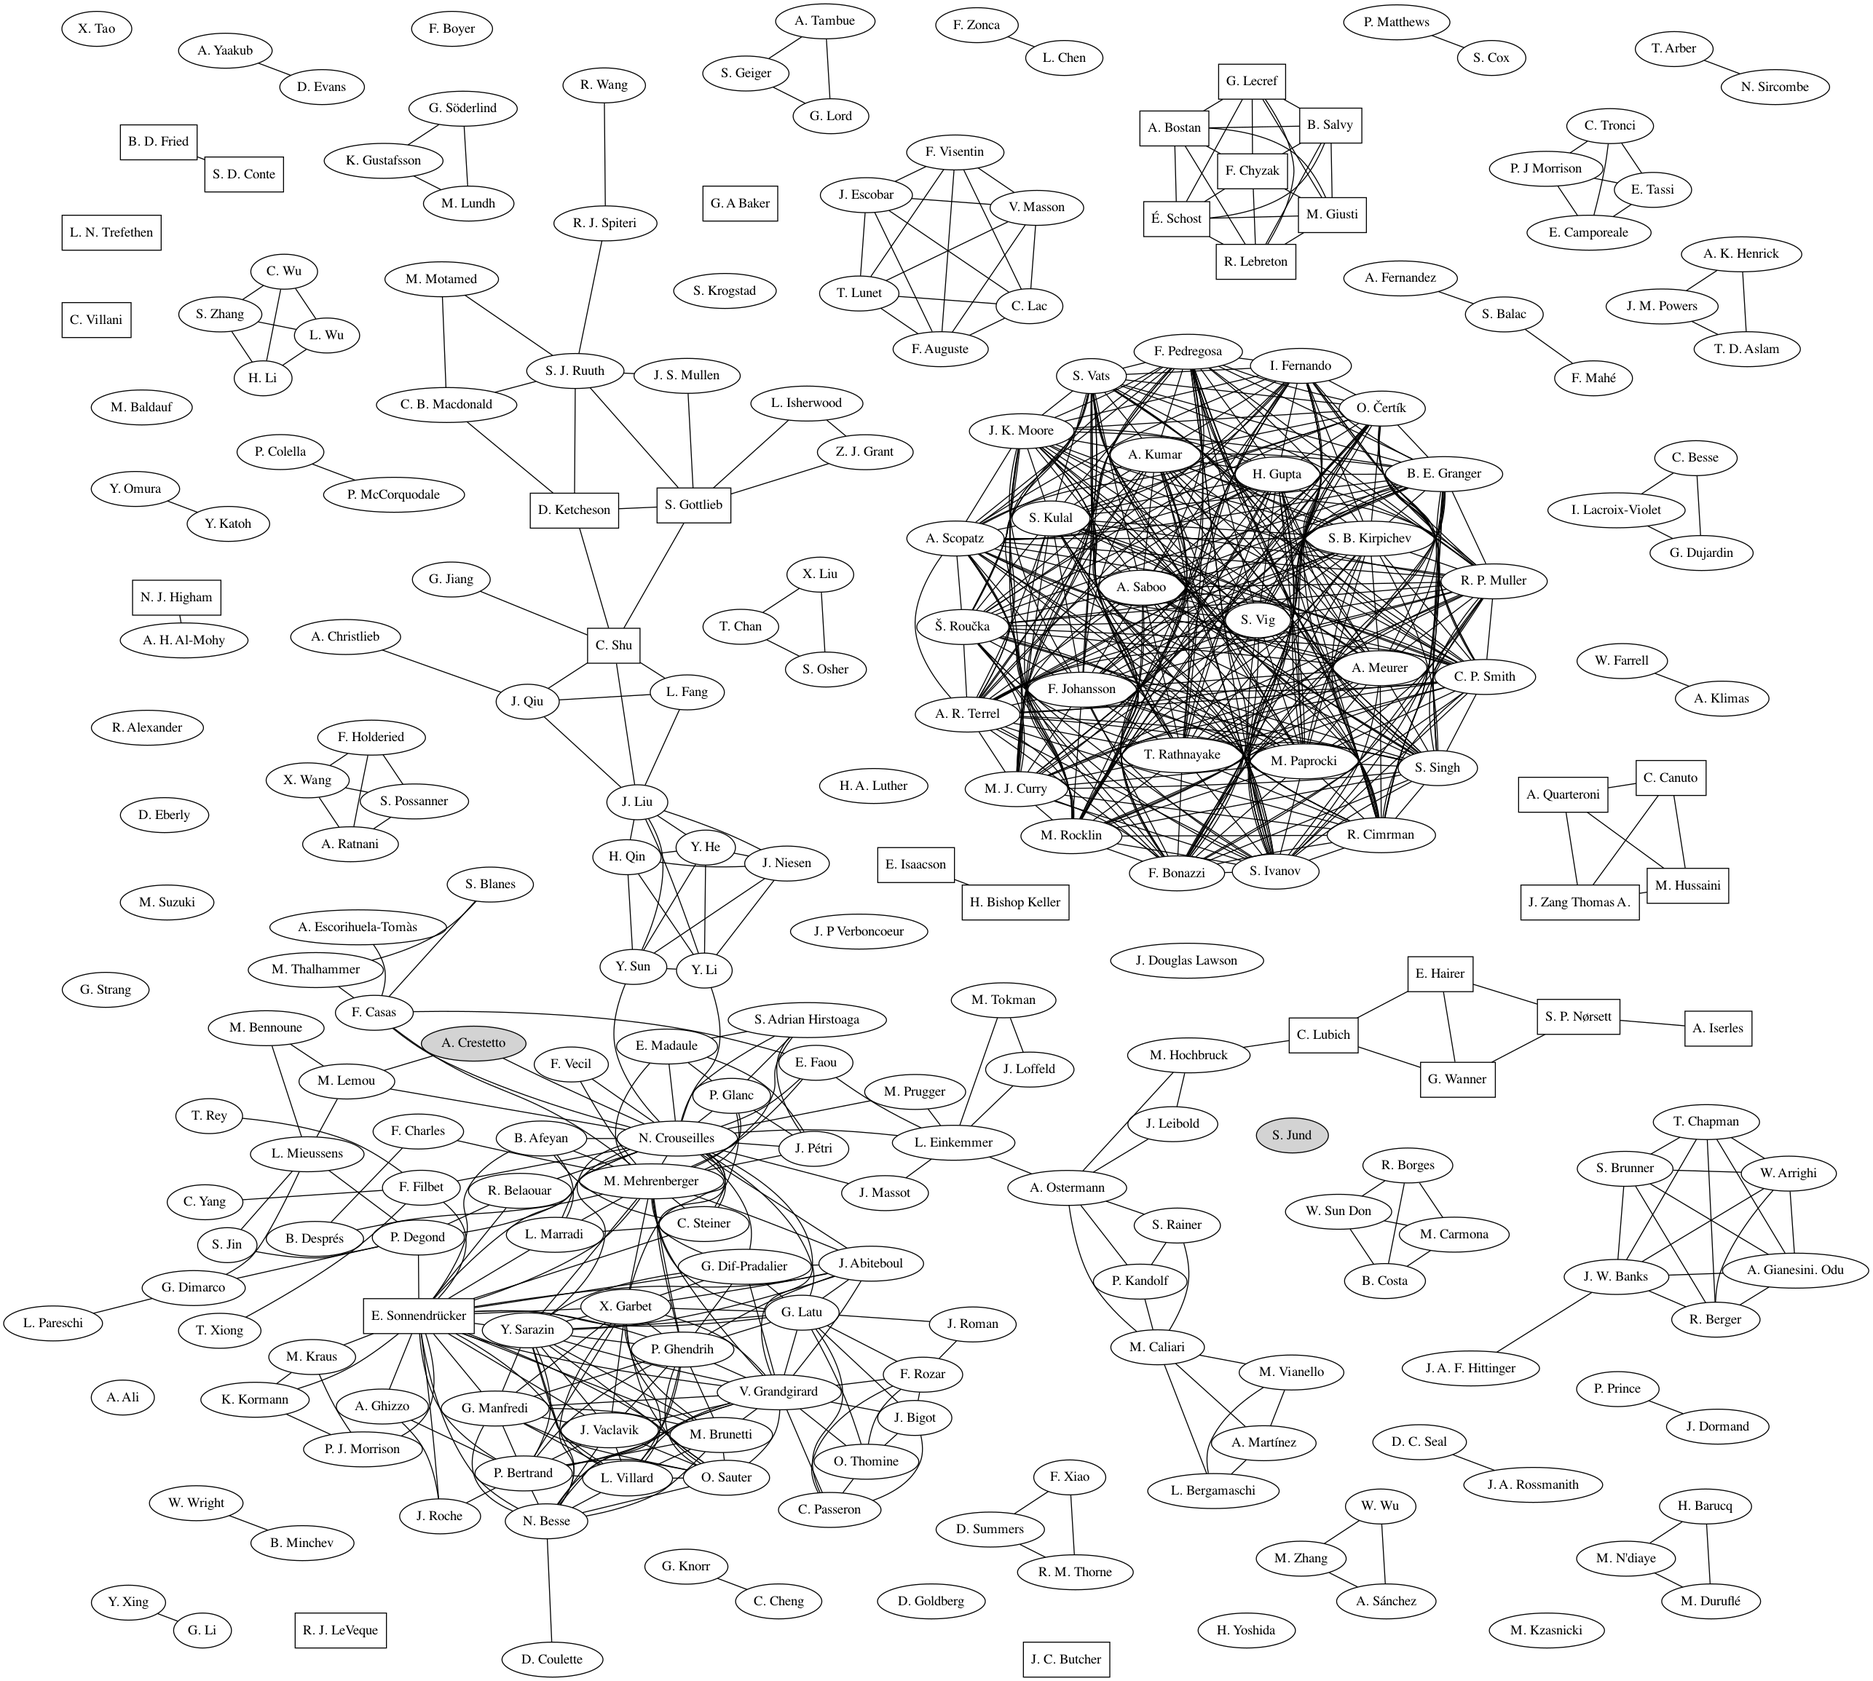
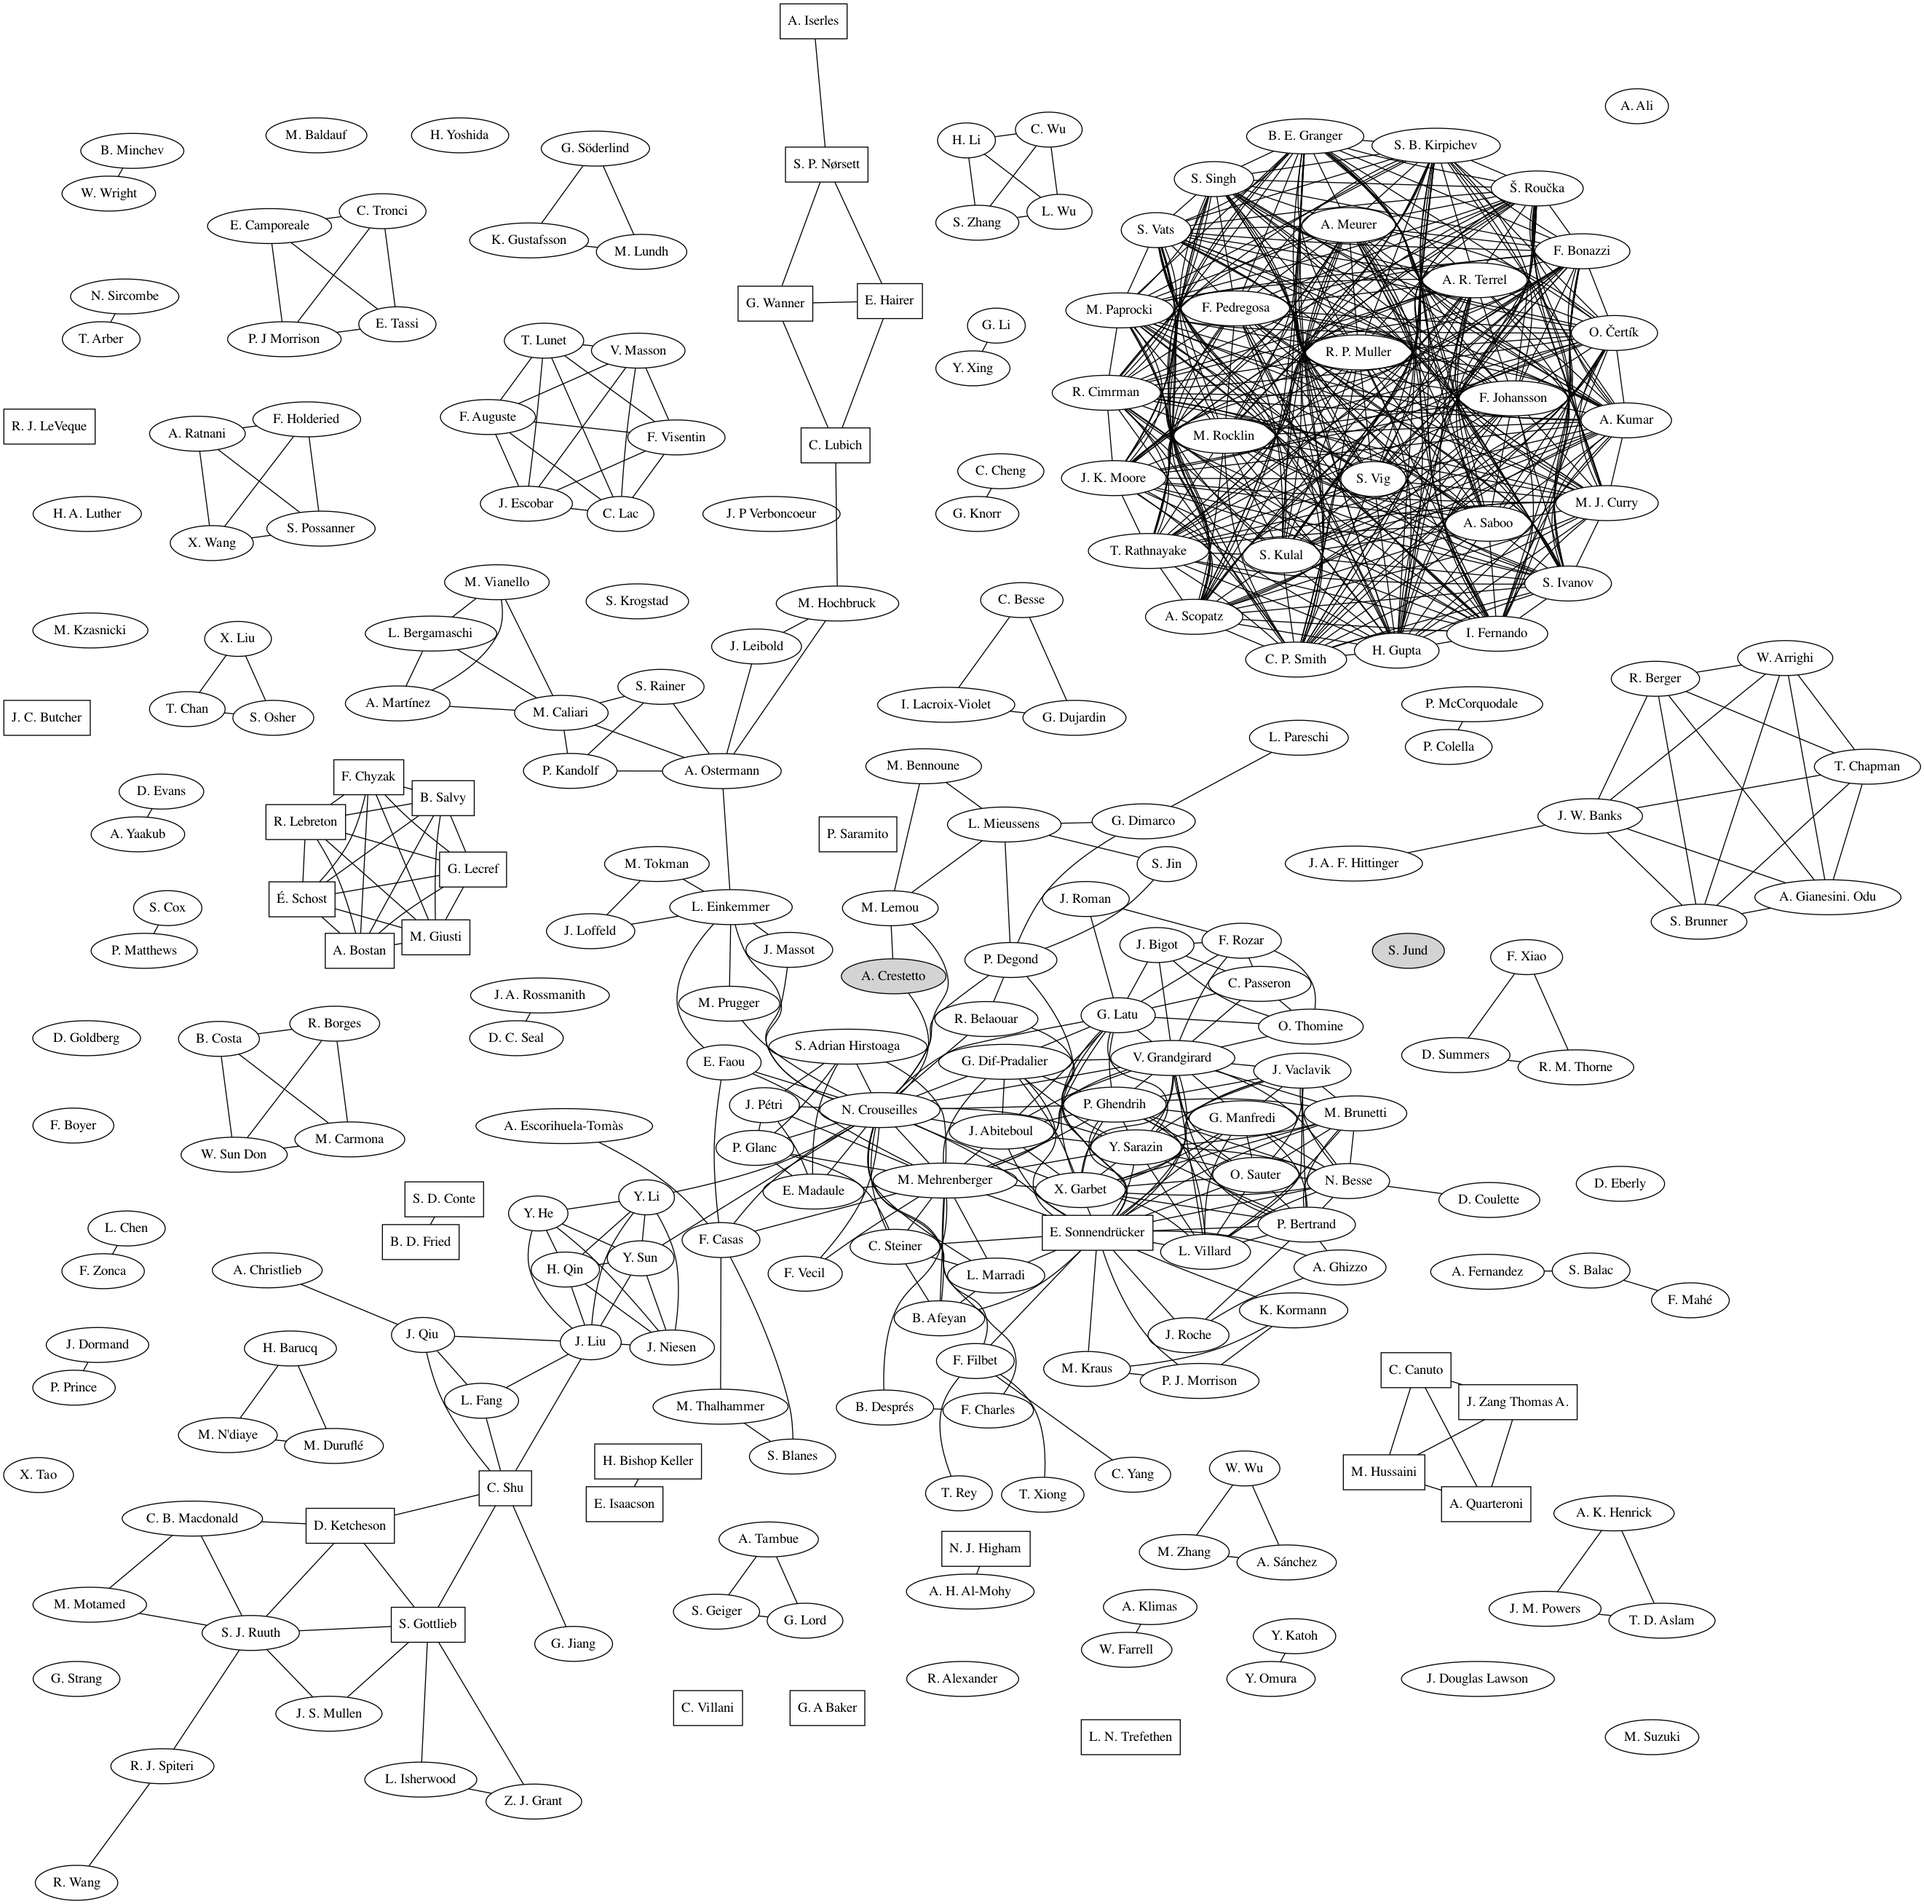
📚 add Saramito:2013

diff --git a/bibliography/README.md b/bibliography/README.md
@@ -267,6 +267,9 @@
 - [[Crestetto:2012b](pdf/2012-Crestetto(b).pdf)] **Kinetic/Fluid Micro-Macro Numerical Schemes for Vlasov-Poisson-BGK Equation Using Particles** (*2012*)
 	A. Crestetto, N. Crouseilles, M. Lemou
 	*Kinetic and Related Models*
+- [[Saramito:2013](https://cel.archives-ouvertes.fr/cel-00573975)] **Langage C++ et calcul scientifique** (*2013*)
+	P. Saramito
+	 
 - [[Coulette:2013](https://www.sciencedirect.com/science/article/pii/S0021999113002532)] **Numerical comparisons of gyrokinetic multi-water-bag models** (*2013*)
 	D. Coulette, N. Besse
 	*Journal of Computational Physics*
